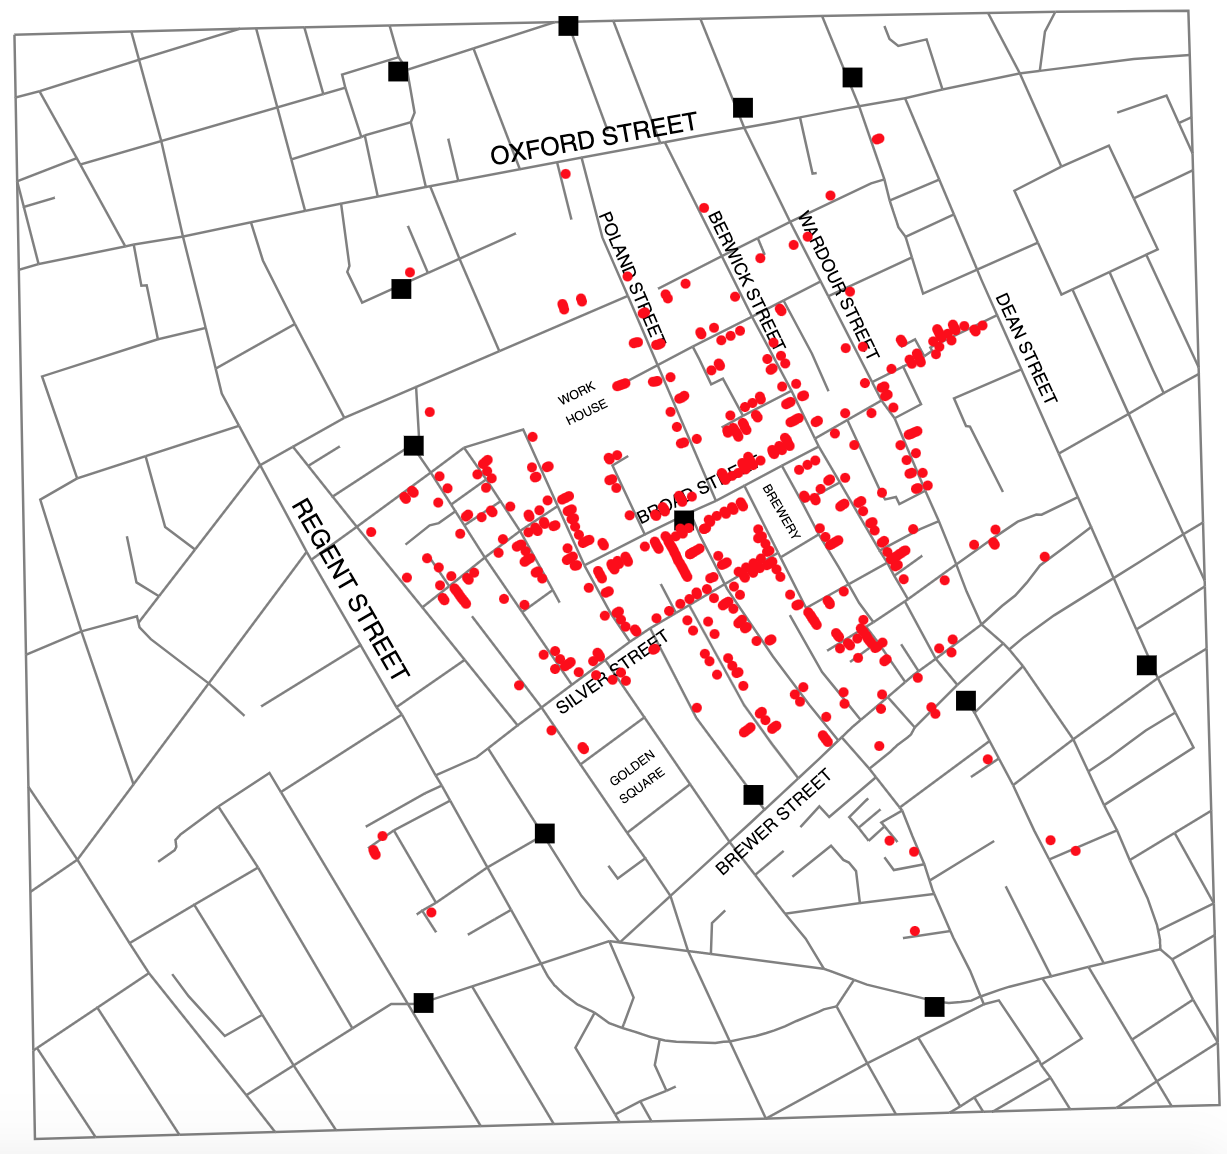
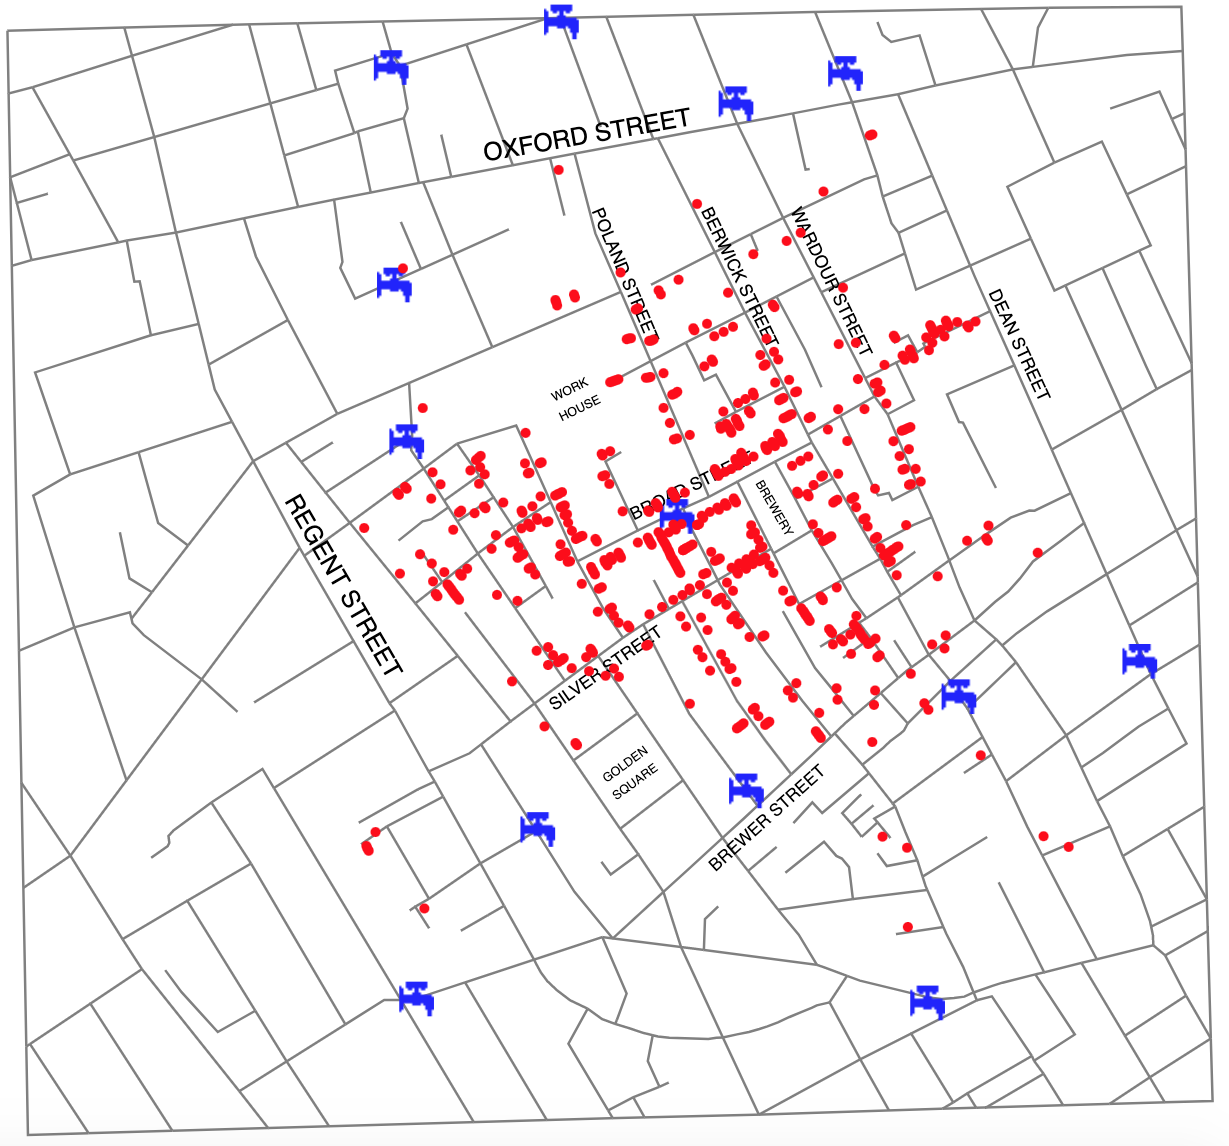
Updated Project

diff --git a/documentation.html b/documentation.html
@@ -3,7 +3,7 @@
 <head>
 	<meta charset="utf-8">
 	<title>Documentation - Cholera Outbreak</title>
-	<link type="text/css" rel="stylesheet" href="Cholera Style.css"/>
+	<link type="text/css" rel="stylesheet" href="styles.css"/>
 	<style>
 	</style>
 </head>
@@ -24,7 +24,7 @@
 		</div>
 		<div align="center">
 		<a href="https://en.wikipedia.org/wiki/File:Snow-cholera-map-1.jpg">
-			<img src="https://upload.wikimedia.org/wikipedia/commons/2/27/Snow-cholera-map-1.jpg"
+			<img src="docs/JohnSnow_Cholera_Map.jpg"
 				alt="John Snow's Cholera Map, via Wikipedia"
 				title="John Snow's Cholera Map, via Wikipedia"
 				style="width:500px"
@@ -63,10 +63,10 @@
 		<div class="pagesubtitle">Design Process</div>
 		<div class="pagetext">
 			<p>
-				The first step for the design process was to picture the visuals on paper. I came up with a couple of ideas to show both graphs at once. The first graph represents the map to show the deaths, street placement, building labels, and pumps. I created the location of each click for a starting estimate of the label placement. The second graph shows a line graph for total deaths by gender and age. The x-axis shows the dates, while the y-axis shows the number of deaths. The X scale of the graph was initially separate from an X range band scale to draw the gray hover bars. I used the same X scale to place the hover bars, which was better than keeping parallel scales in synch. 
+				The first step for the design process was to picture the visuals on paper. I came up with a couple of ideas to show both graphs at once. The first graph represents the map to show the deaths, street placement, building labels, and pumps. I created the location of each click for a starting estimate of the label placement. The second graphs show a line chart, bar chart, and pie chart for total deaths by gender and age. The x-axis shows the dates, while the y-axis shows the number of deaths. The X scale of the graph was initially separate from an X range band scale to draw the dark gray hover bars. I used the same X scale to place the hover bars, which was better than keeping parallel scales in synch. 
 			</p>
 			<p>
-				Dr. Reda provided documentation and deliverables for how the project would be graded. I added both graphs and highlighted the features one by one according to the requirements that were listed. I asked my co-workers to test out the visualization as well as how the colors appeal to them. My co-workers interacted with the web pages and the graphs provided. I received feedback, which gave me an idea for a consistent style. 
+				Dr. Reda provided documentation and deliverables for how the project would be graded. I added both graphs and highlighted the features one by one according to the requirements that were listed. I asked my co-workers to test out the visualization as well as how the colors appeal to them. My co-workers interacted with the web pages and the graphs provided. I received feedback, which gave me an idea for a consistent style. One feedback I recieved was on the male/female bar chart. The pumps are colored blue (to represent water) and the male point is blue. 
 			</p>
 			<p>
 				After receiving feedback, I decided to make a CSS file for the project. The CSS consisted of the page title, page subtitle, page text, and page buttons. This CSS kept my project consistent with text formatting. The page title has a color of RGB(157, 34, 53), which is the official color of IU Crimson. The page title text is formatted to Arial serif, 30 point size, and bold. The page subtitle text is black, Arial serif, 20 point size, and bold. The page text is black, Arial serif, and 12 point size. Finally, the page buttons are IU Crimson, white text, 17 point size font, and slightly other features. I used the Indiana University crimson color to post all of my graduate school work on my website, <a href="https://www.NikhilMorar.com">www.NikhilMorar.com</a> so that the color schemes will be the same across all projects. 
@@ -75,7 +75,7 @@
 				I experimented with different color schemes but came up with the solution to stay consistent throughout the project. I used blue to show males, magenta to show females, and six red scales to show age categories. From lighter to darker red to show younger age compared to an older age. All of these choices were made after various attempts of using different color schemes. The visualizations was good with the color blindness simulation tool.
 			</p>
 			<p>
-				<img width="50%" style="float:right;margin-left:15px" src="docs/DeathsByAge.png"/>
+				<img width="50%" style="float:right;margin-left:15px" src="docs/MostDeaths.png"/>
 			</p>
 		</div>
 		<div class="pagesubtitle">Conclusions/Findings</div>
@@ -91,21 +91,6 @@
 				<br/>
 				<br/>
 				Khairi Reda. “Project 1: H517 Visualization Design, Analysis, and Evaluation.”, khreda.com/teaching/2020/H517/project1/.
-				<br/>
-				<br/>
-				<b>I used these visuals to help craft my project:</b>
-				<br/>
-				<br/>
-				https://linzhao15.github.io/documentation
-				<br/>
-				<br/>
-				http://www.tabithatsai.com/projects/visualizationDesign.html
-				<br/>
-				<br/>
-				http://nehapatil.in/project/cholera-map-visualization
-				<br/>
-				<br/>
-				https://www.youtube.com/watch?v=emIHKsXdpuY
 			</p>
 		</div>
 	</div>

diff --git a/index.html b/index.html
@@ -13,7 +13,7 @@
         <div class="pagetitle" style="float: left;">London's 1854 Cholera Epidemic</div>
         <div style="float: right;">
             <form>
-                <input class="pagebutton" type="button" value="Documentation" onclick="window.location.href='docs/documentation.html'" />
+                <input class="pagebutton" type="button" value="Documentation" onclick="window.location.href='documentation.html'" />
             </form>
         </div>
         <br /><br />
@@ -42,11 +42,12 @@
                 (indicated by black squares). When viewing this visual, there is a strong
                 correlation between cholera deaths to a water pump on Broad Street. Click the
                 play button below to watch a YouTube video showing the use of the visualization
-                with narration. <b>I made a few edits to my visuals after making the video below.</b>
+                with narration.
+            </p>
+            <p align="center">
+            <iframe width="560" height="360" src="https://www.youtube.com/embed/tSV2ako7nf4" frameborder="0" allow="accelerometer; autoplay; clipboard-write; encrypted-media; gyroscope; picture-in-picture" allowfullscreen></iframe>
             </p>
         </div>
-        <br /><br />
-        <br /><br />
         <div class="filter-dates" id="filter-dates">
             <select name="from-date" id="from-date" class="date-input">
                 <option value="0" disabled selected="selected">From Date</option>
